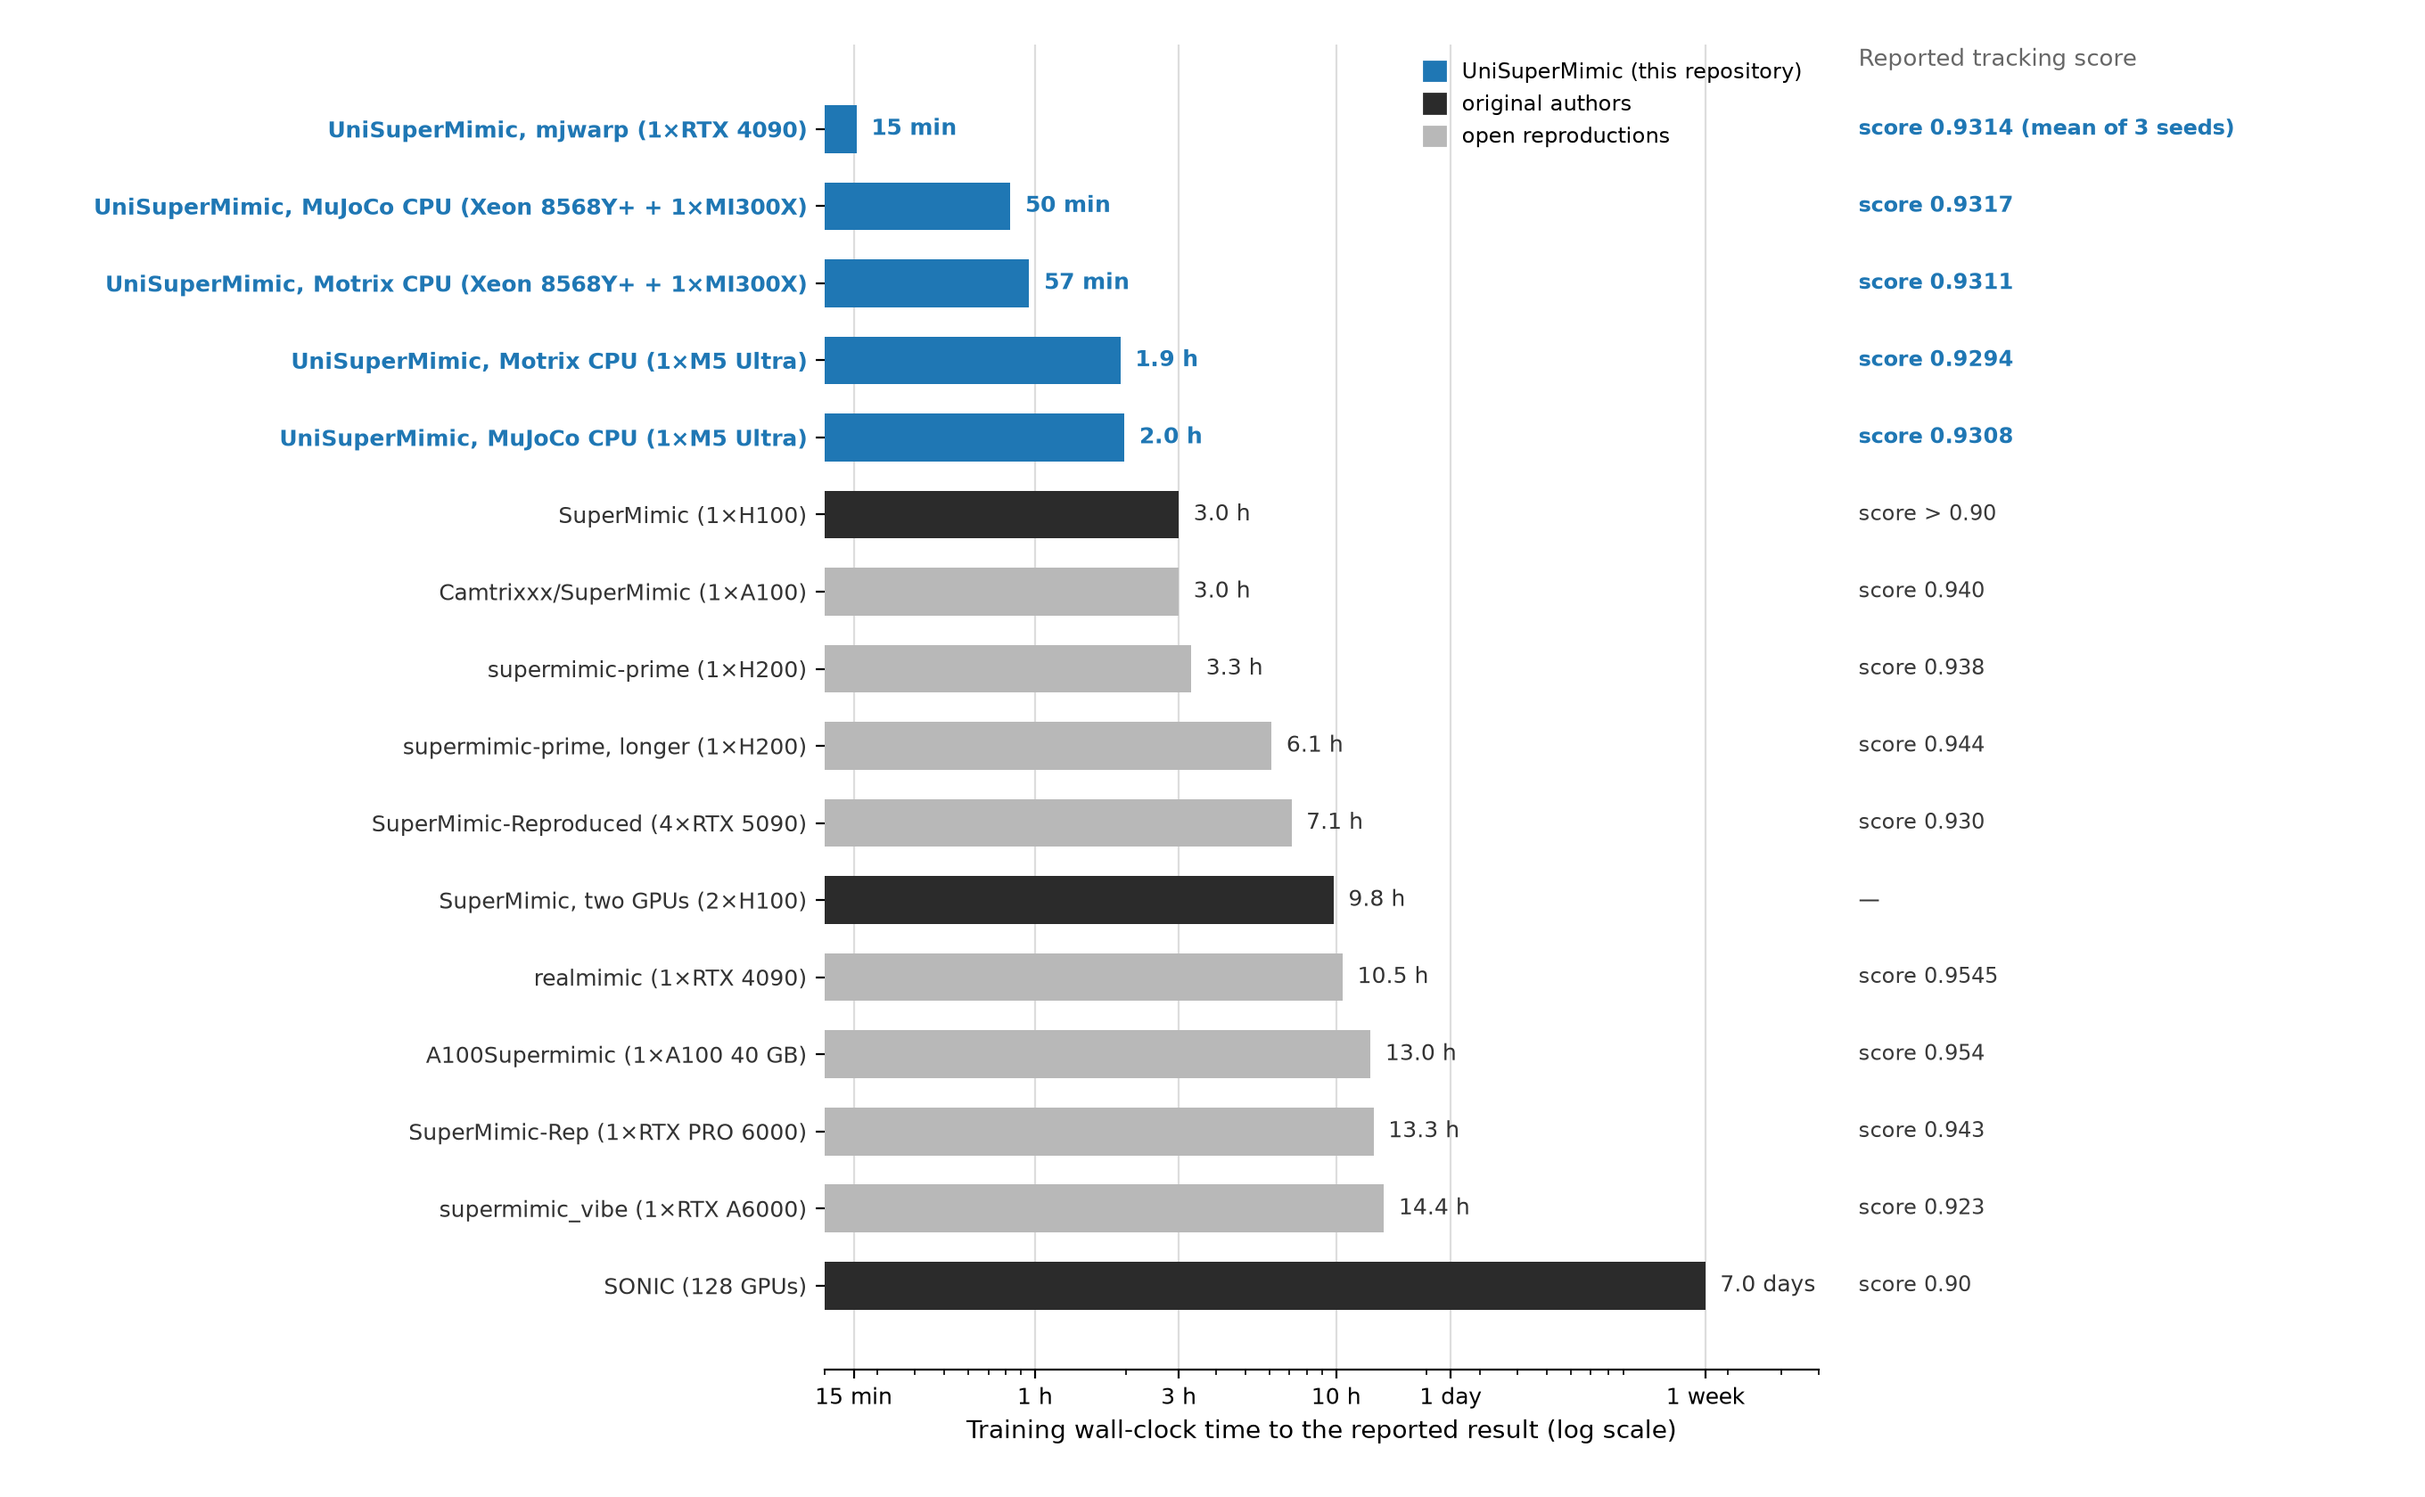
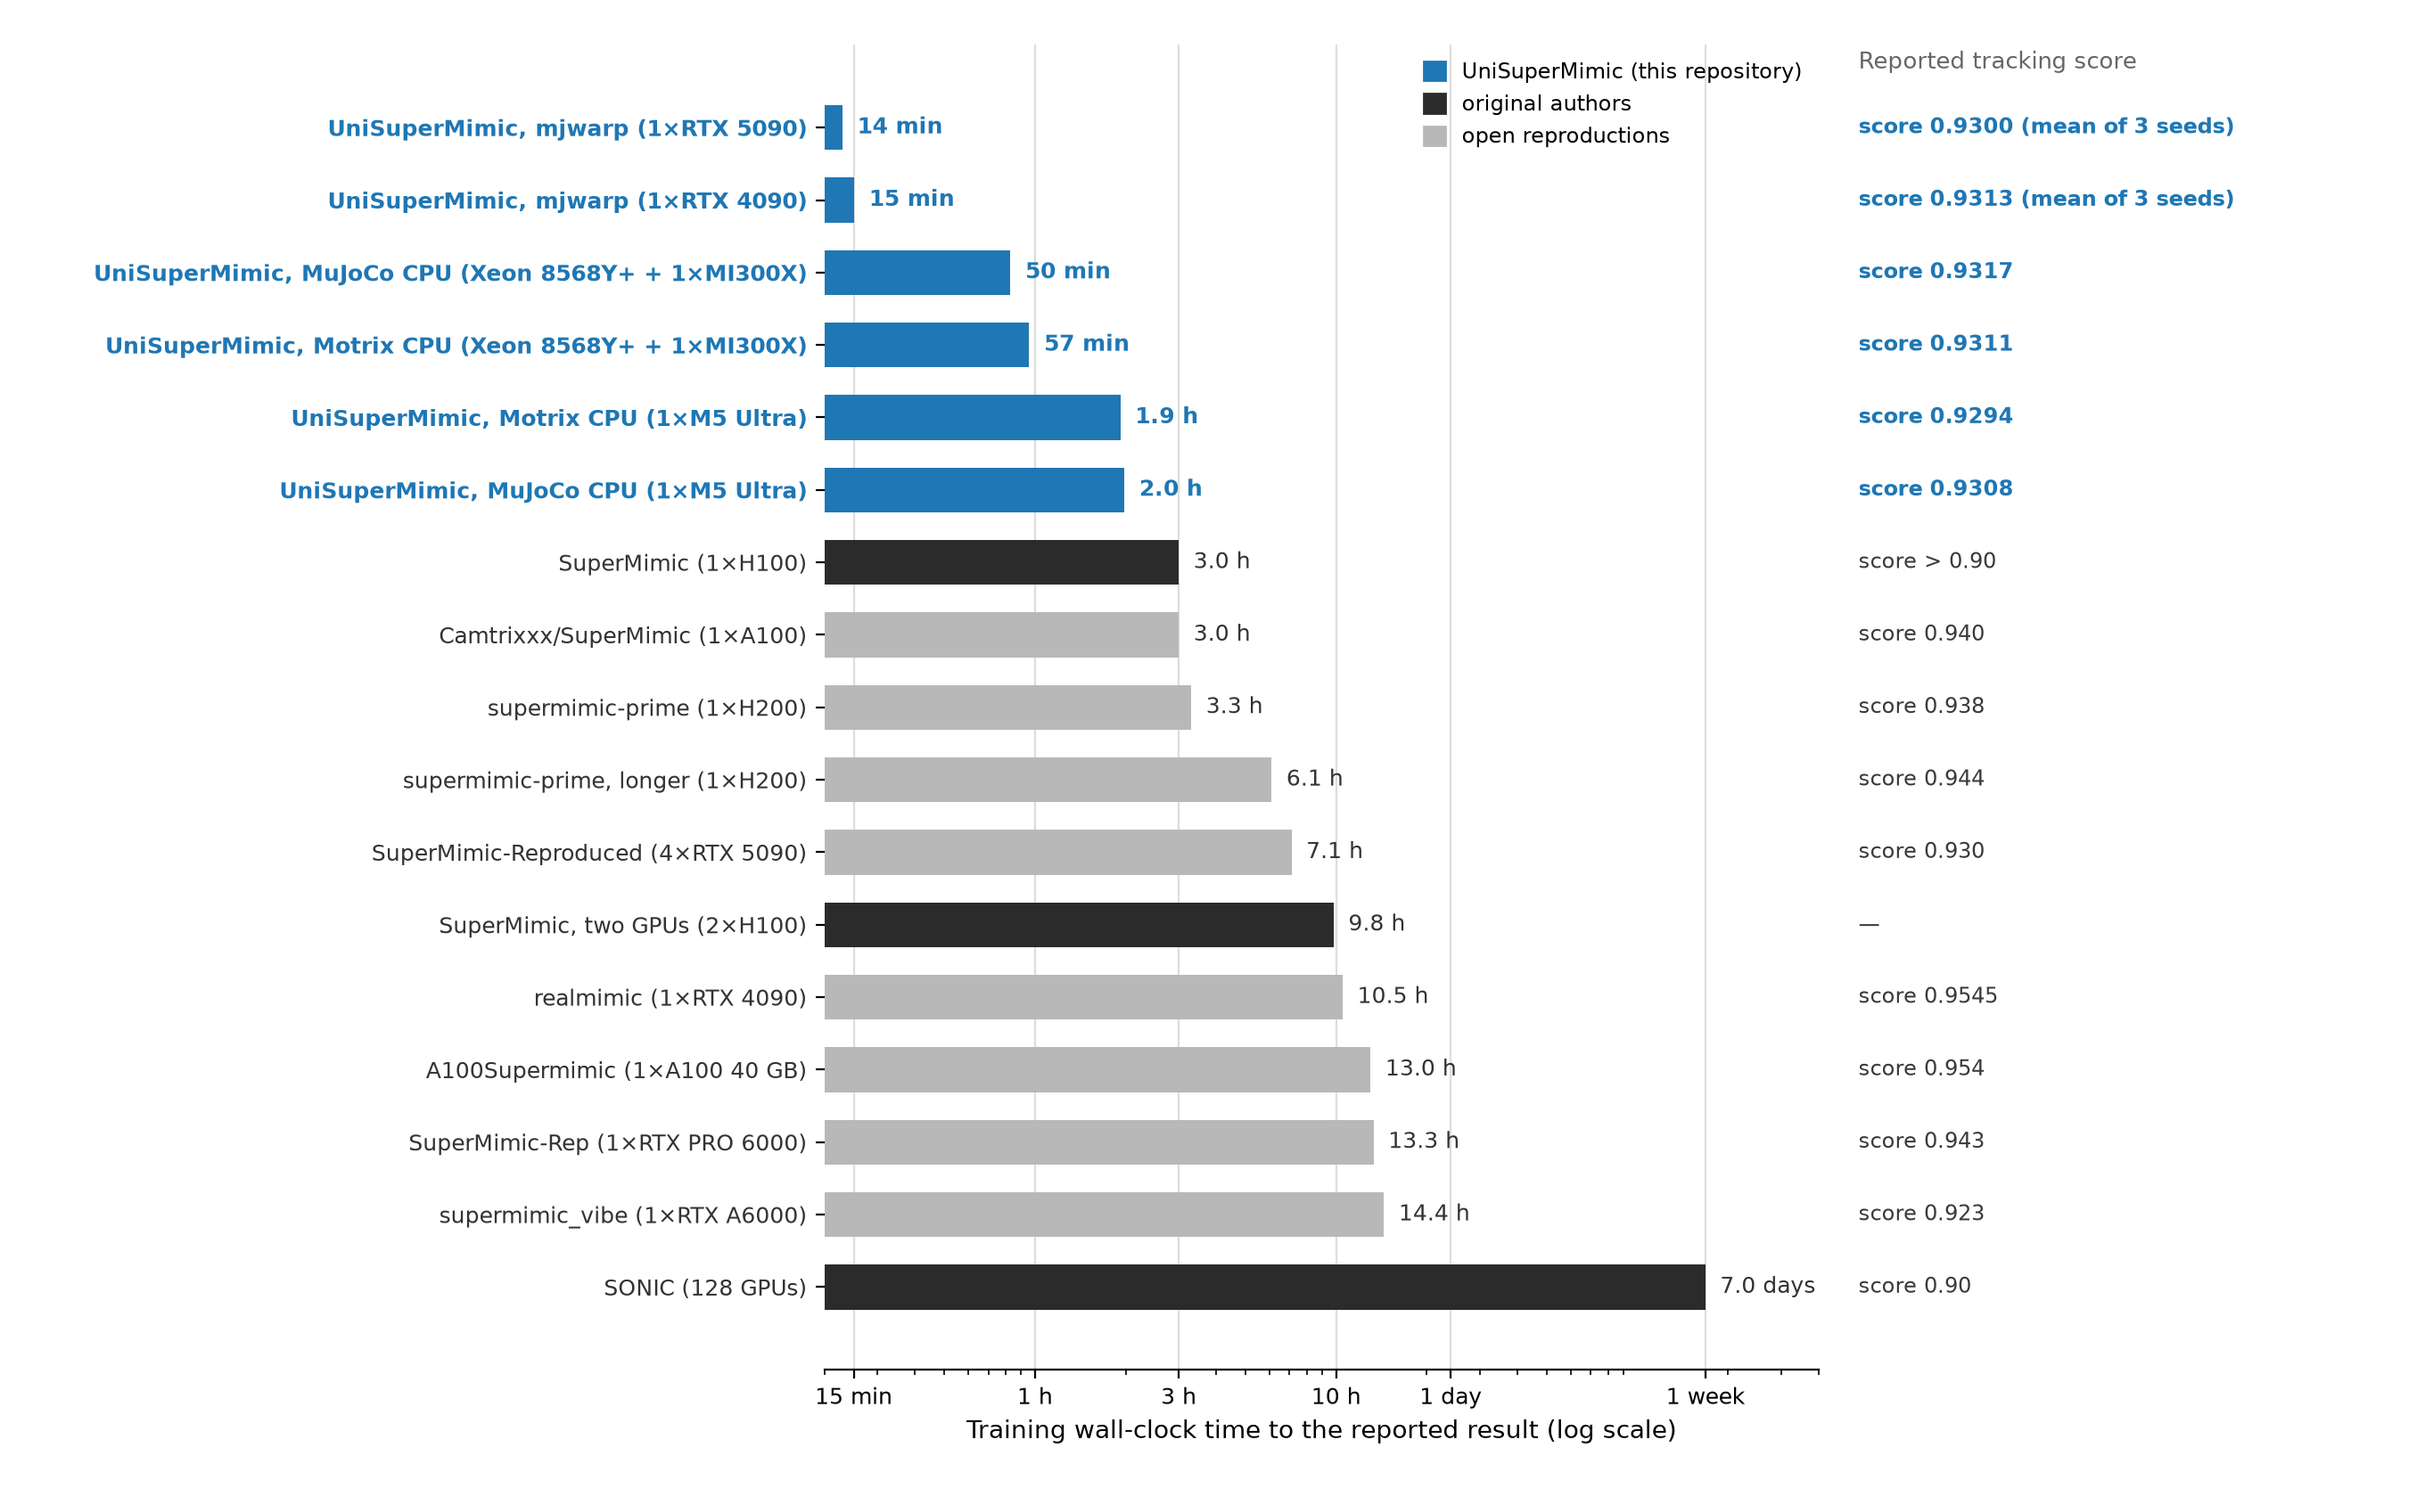
docs: add the RTX 5090 results and refresh the RTX 4090 results with the learner CUDA graphs (3 seeds each)
RTX 4090 (one machine per seed, as before): 15.3 -> 15.1 min, 8.70 -> 8.85 it/s, norm return 0.9314 -> 0.9313, 226 -> 230 failed clips. RTX 5090 (new row, Xeon 8380 host): 13.8 min, 9.68 it/s, norm return 0.9300, 213 failed; the same three seeds on main take 15.1 min at 8.80 it/s. Training time excludes one-off compilation.

diff --git a/README.md b/README.md
@@ -17,8 +17,8 @@ UniSuperMimic is an independent downstream reproduction of [SuperMimic](https://
 ### Highlights
 
 - **BONES-SEED at scale**: download, convert, filter, pack, train on, and deterministically evaluate a 129,487-clip / 47.3M-frame motion library from one repository.
-- **Graph-captured fixed-shape autoreset**: unilab 1.6.4 pins body-packet storage across resets and publishes caller-owned step outputs, so the reset segment runs as a replayed CUDA graph — the default 8,000-iteration BONES-SEED recipe trains in **about 15 minutes on one RTX 4090**, one-off compilation excluded (mean of 3 seeds: 0.9314 full-library norm return, 99.83% clip success rate).
-- **Single-GPU efficiency**: mjwarp, MuJoCo, and Motrix all support an efficient one-GPU workflow; learner throughput reaches ~8.7 it/s with the graph-captured autoreset chain.
+- **Graph-captured fixed-shape autoreset**: unilab 1.6.4 pins body-packet storage across resets and publishes caller-owned step outputs, so the reset segment runs as a replayed CUDA graph — the default 8,000-iteration BONES-SEED recipe trains in **about 15 minutes on one RTX 4090** or **about 14 minutes on one RTX 5090**, one-off compilation excluded (mean of 3 seeds per GPU: 0.9313 and 0.9300 full-library norm return, 99.8% clip success rate).
+- **Single-GPU efficiency**: mjwarp, MuJoCo, and Motrix all support an efficient one-GPU workflow; learner throughput reaches ~8.8 it/s on one RTX 4090 and ~9.7 it/s on one RTX 5090 with the graph-captured autoreset chain and the learner-side CUDA graphs.
 - **Three simulation backends**: switch between mjwarp, MuJoCo, and Motrix without changing the policy or dataset configuration.
 
 <p align="center">
@@ -31,7 +31,7 @@ UniSuperMimic is an independent downstream reproduction of [SuperMimic](https://
   <img src="docs/assets/time_comparison.png" alt="Training wall-clock time versus reported tracking score across SuperMimic projects" width="95%">
 </p>
 
-<p align="center"><em>Training wall-clock time to the reported result, with each project's reported tracking score (log-scale time axis). The UniSuperMimic rows run the same default recipe on different hardware and simulation backends (single seed; the RTX 4090 row is a 3-seed mean); MuJoCo and Motrix simulate on the CPU with the learner on the GPU; UniSuperMimic training times exclude one-off compilation. Historical runs and ablations are archived in <a href="docs/results_history.md">docs/results_history.md</a>.</em></p>
+<p align="center"><em>Training wall-clock time to the reported result, with each project's reported tracking score (log-scale time axis). The UniSuperMimic rows run the same default recipe on different hardware and simulation backends (the RTX 4090 and RTX 5090 rows are 3-seed means, the others single seed); MuJoCo and Motrix simulate on the CPU with the learner on the GPU; UniSuperMimic training times exclude one-off compilation. Historical runs and ablations are archived in <a href="docs/results_history.md">docs/results_history.md</a>.</em></p>
 
 Paper: [*SuperMimic: Scaling Humanoid Whole-Body Control with One Differentiable World Model*](https://arxiv.org/abs/2610.28480), Qiayuan Liao et al. The implementation references `supermimic_vibed` and depends on PyPI `unilab`.
 
@@ -263,17 +263,18 @@ By default, the reference root XY is aligned with the policy to highlight whole-
 
 Previous result tables and ablations (LAFAN1, the 12000-iteration BONES-SEED run, EMA/no-sync, Muon, and the pre-graph default recipe) are archived in [docs/results_history.md](docs/results_history.md).
 
-The default recipe trains with unilab 1.6.4's fixed-shape autoreset chain enabled through the single `env.autoreset_cuda_graph` switch: masked autoreset, persistent step buffers, deferred finite validation, and reset-segment CUDA graph capture on top of the task-side fixed-address state-publication carriers. Deterministic evaluation keeps the selected-row reset lifecycle, so the evaluation contract is unchanged.
+The default recipe trains with unilab 1.6.4's fixed-shape autoreset chain enabled through the single `env.autoreset_cuda_graph` switch: masked autoreset, persistent step buffers, deferred finite validation, and reset-segment CUDA graph capture on top of the task-side fixed-address state-publication carriers. Deterministic evaluation keeps the selected-row reset lifecycle, so the evaluation contract is unchanged. On NVIDIA CUDA the learner also replays its fixed-shape work from CUDA graphs, on by default: the critic loop and the world-model and policy gradient steps (`algo.critic_update`, `algo.wm_graph`, `algo.policy_graph`), their optimizer steps (`algo.optimizer_graph`), and the learner's own work around each `env.step` of a collect step (`algo.collect_graph`). Each replay is bit-identical to the eager computation, and each switch takes the eager path on other devices.
 
-Three seeds (mjwarp, 4096 environments, one RTX 4090 per seed, the complete 129,487-clip library); deterministic full-library evaluation with 16,384 environments from frame zero without noise. A failed clip is one whose rollout hard-terminates (falls) before the clip ends — the SuperMimic-family protocol. Reported numbers are the mean of the three seeds. Training time is the learner wall time of the 8,000 iterations with one-off compilation removed: the first-iteration `torch.compile` stall (6–94 s in these runs, depending on the compile cache) is subtracted, so the number does not depend on the cache state.
+Three seeds per GPU (mjwarp, 4096 environments, one RTX 4090 or one RTX 5090 per seed, the complete 129,487-clip library); deterministic full-library evaluation with 16,384 environments from frame zero without noise. A failed clip is one whose rollout hard-terminates (falls) before the clip ends — the SuperMimic-family protocol. Reported numbers are the mean of the three seeds. Training time is the learner wall time of the 8,000 iterations with one-off compilation removed: the first-iteration `torch.compile` stall (5–12 s in these runs, depending on the compile cache) is subtracted, so the number does not depend on the cache state.
 
-| policy (8000 iterations) | norm return | frame-weighted | failed clips | success rate | training time (compile excluded) |
-|---|---:|---:|---:|---:|---:|
-| default recipe with `env.autoreset_cuda_graph` | **0.9314** | **0.9271** | **226** | **99.83%** | **15.3 min** |
+| default recipe (8000 iterations) | GPU | norm return | frame-weighted | failed clips | success rate | training time (compile excluded) |
+|---|---|---:|---:|---:|---:|---:|
+| `env.autoreset_cuda_graph` + learner CUDA graphs | 1× RTX 4090 | **0.9313** | **0.9270** | **230** | **99.82%** | **15.1 min** |
+| `env.autoreset_cuda_graph` + learner CUDA graphs | 1× RTX 5090 | **0.9300** | **0.9258** | **213** | **99.84%** | **13.8 min** |
 
-Steady-state learner throughput is ~8.7 it/s (iterations 1000–8000); the 8,000 iterations take about 15 minutes on a single RTX 4090.
+Steady-state learner throughput is ~8.8 it/s on one RTX 4090 and ~9.7 it/s on one RTX 5090 (iterations 1000–8000). The RTX 5090 host (Xeon Platinum 8380) has roughly a third of the single-core speed of the RTX 4090 hosts (Ryzen 9 9950X); with the learner-side CUDA graphs the host's remaining work per iteration is below the GPU time on both machines, so the iteration time is set by the GPU.
 
-![Training curves, mean of 3 seeds](docs/assets/graph8k_curves.png)
+![Training curves, per-iteration mean of 3 seeds, RTX 4090 vs RTX 5090](docs/assets/graph8k_curves.png)
 
 ## Tests
 

diff --git a/docs/results_history.md b/docs/results_history.md
@@ -81,4 +81,14 @@ The first results with `env.autoreset_cuda_graph` enabled, measured on unilab 1.
 
 Steady-state learner throughput was ~6.2 it/s.
 
+## Default recipe before the optimizer and collector CUDA graphs (8000 iterations)
+
+Measured on main at `5cbbf13` (unilab 1.6.4, after #68–#72 and before the optimizer-step and collect-step CUDA graphs and the asynchronous iteration reads). Three seeds (mjwarp, 4096 environments, one RTX 4090 per seed, the complete 129,487-clip library); deterministic full-library evaluation with 16,384 environments from frame zero without noise. Training time is the learner wall time with the one-off compilation removed, as in the README.
+
+| policy (8000 iterations) | norm return | frame-weighted | failed clips | success rate | training time (compile excluded) |
+|---|---:|---:|---:|---:|---:|
+| default recipe with `env.autoreset_cuda_graph` | 0.9314 | 0.9271 | 226 | 99.83% | 15.3 min |
+
+Steady-state learner throughput was ~8.7 it/s.
+
 [`perf/unilab-115-masked-autoreset-compile`]: https://github.com/Motphys/Uni-SuperMimic/pull/61
